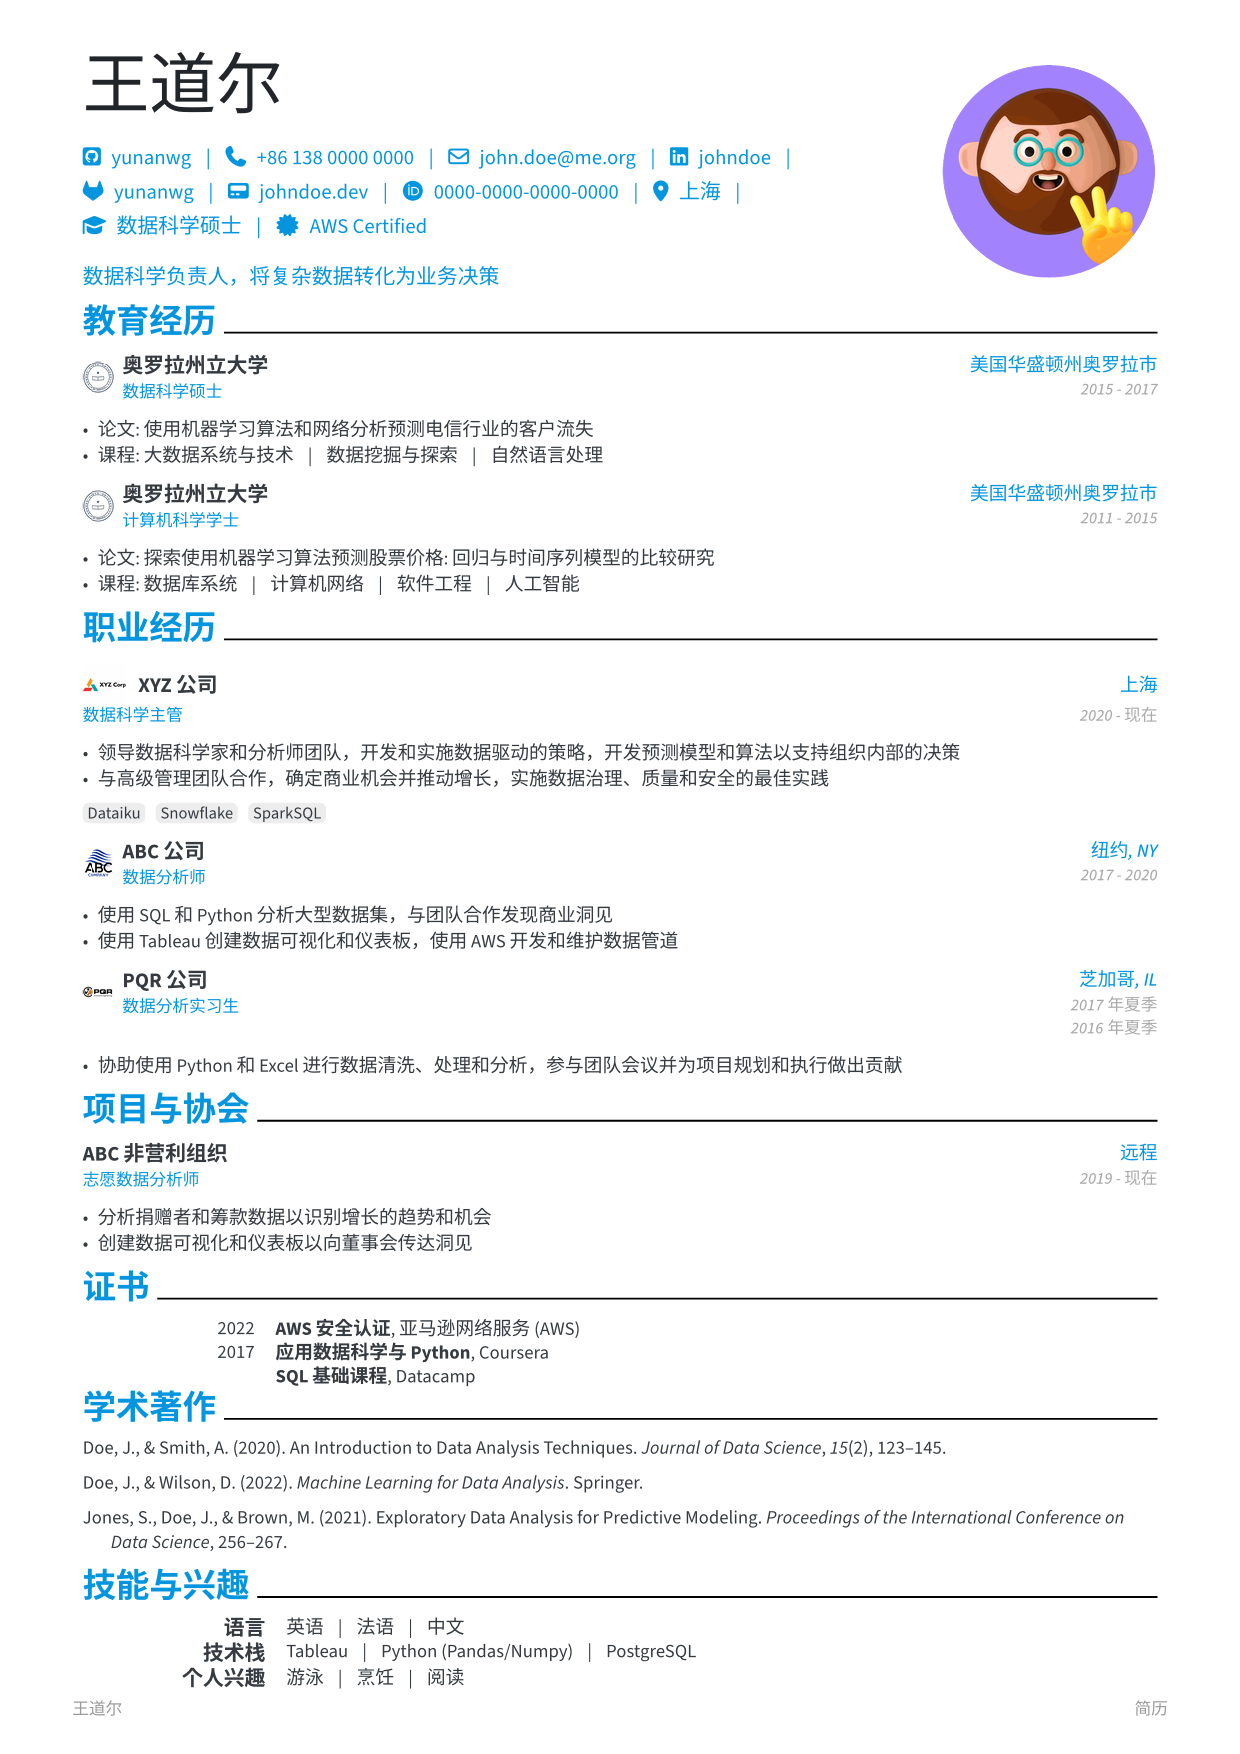
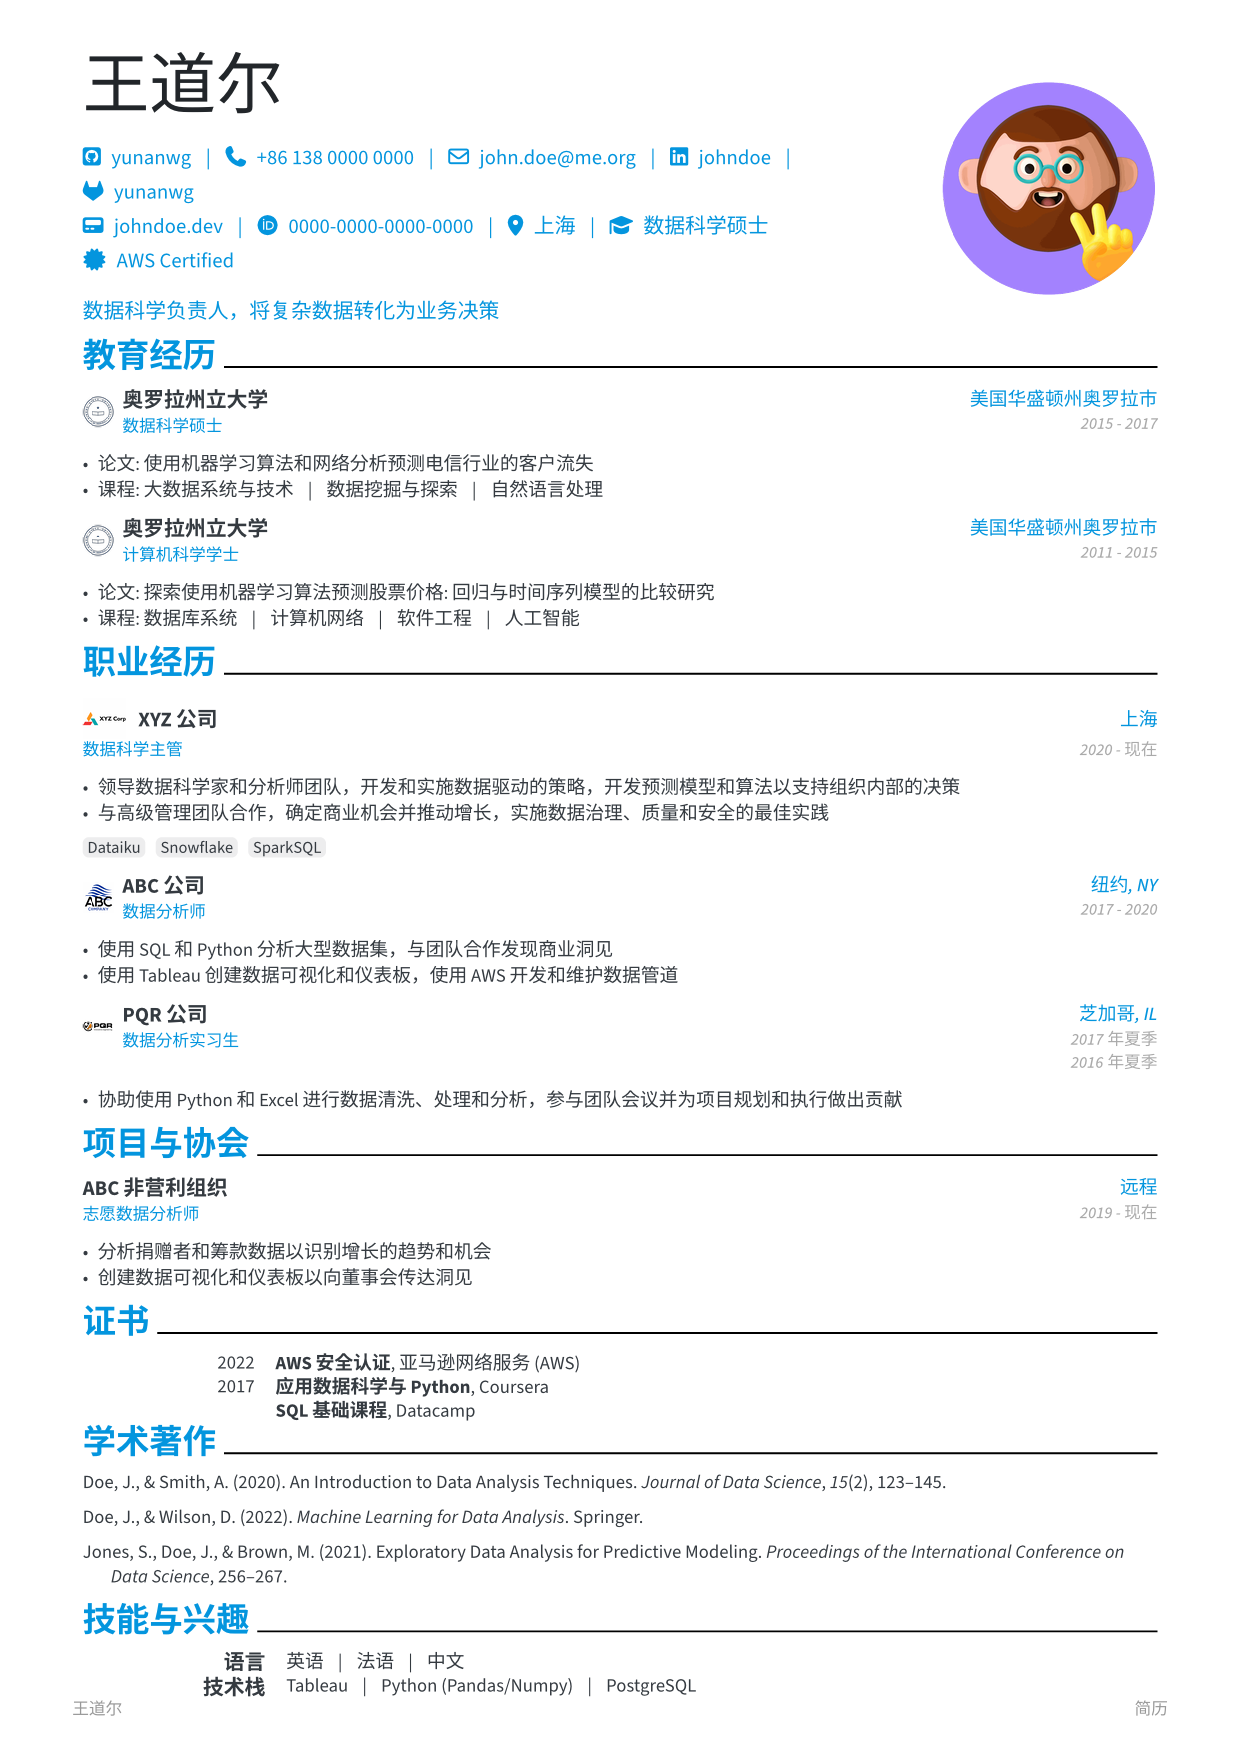
fix(template): tidy starter data and document the tailoring workflow (#266)
* fix(template): tidy starter data and document the tailoring workflow

A second agent dry run on a fresh starter surfaced what was left:

- The Data Scientist bullets duplicated the Data Analyst bullets word for
  word; they now describe the modelling work. "Bachelors" is "Bachelor"
  (fr: "Licence"), and the Languages row no longer puts one 4-dot rating
  on a native and two foreign languages.
- template/AGENTS.md gains the page-count check through the layout hooks
  (`typst eval`), a PNG command for application subfolders, a step-by-step
  recipe for tailoring one application (copy cv.typ and letter.typ, fix
  paths, pin the letter date), and a note on small-caps addresses.
- The fresh-init smoke compiles the documented subfolder copy of the
  letter as well as the CV.

Refs, text snapshots, README previews, and the thumbnail are regenerated.

* docs(template): give the Typst 0.14 page-count command

diff --git a/scripts/release_contract.py b/scripts/release_contract.py
@@ -466,25 +466,26 @@ def smoke(package_dir: Path) -> None:
             raise ContractError("fresh init did not create AGENTS.md")
         application = project / "applications" / "smoke"
         application.mkdir(parents=True)
-        source = (project / "cv.typ").read_text(encoding="utf-8")
-        nested = source.replace('"profile_"', '"../../profile_"').replace(
-            'image("assets/', 'image("../../assets/'
-        )
-        if nested == source:
-            raise ContractError("starter cv.typ no longer uses profile_ paths")
-        (application / "cv.typ").write_text(nested, encoding="utf-8")
-        run(
-            [
-                "typst",
-                "compile",
-                "--package-path",
-                str(package_root),
-                "--root",
-                str(project),
-                str(application / "cv.typ"),
-                str(temporary / "application-cv.pdf"),
-            ]
-        )
+        for entrypoint in ("cv.typ", "letter.typ"):
+            source = (project / entrypoint).read_text(encoding="utf-8")
+            nested = source.replace('"profile_"', '"../../profile_"').replace(
+                '"assets/', '"../../assets/'
+            )
+            if nested == source:
+                raise ContractError(f"starter {entrypoint} no longer uses profile_ paths")
+            (application / entrypoint).write_text(nested, encoding="utf-8")
+            run(
+                [
+                    "typst",
+                    "compile",
+                    "--package-path",
+                    str(package_root),
+                    "--root",
+                    str(project),
+                    str(application / entrypoint),
+                    str(temporary / f"application-{entrypoint.removesuffix('.typ')}.pdf"),
+                ]
+            )
     print(
         "Fresh-init smoke passed: CV + letter, 5 profiles, AGENTS.md subfolder "
         f"workflow, {typst_version()}"

diff --git a/template/AGENTS.md b/template/AGENTS.md
@@ -38,18 +38,38 @@ only.
    - For a file in a subfolder that reads `../../profile_<name>/`, add
      `--root .` and run from this folder:
      `typst compile --root . applications/<company>/cv.typ`
-   - To check the page count and the layout, compile to PNG, one file per
-     page: `typst compile cv.typ "cv-{p}.png"`. Typst does not create a
-     missing output folder.
+   - To check the page count without rendering (Typst 0.15+):
+     `typst eval --input brilliant-cv-query=1 'query(<brilliant-cv>).last().value.pages' --in cv.typ`.
+     On Typst 0.14, use `typst query cv.typ '<brilliant-cv>' --field value --input brilliant-cv-query=1`
+     and read `pages` from the last element. Each element also reports the
+     `page` on which it ends, so you can list what spilled to page 2; the
+     `cv()` doc-comment lists the fields.
+   - To see the layout, compile to PNG, one file per page:
+     `typst compile --root . applications/<company>/cv.typ "applications/<company>/cv-{p}.png"`.
+     Typst does not create a missing output folder.
 5. **Keep personal data local.** A scanned signature, a phone number, and
    application folders do not belong in a public repository. Before the
    first commit, add `applications/`, `*.pdf`, and `assets/signature.*` to a
    `.gitignore` in this folder.
 
+## Tailor a CV for one application
+
+1. Copy `cv.typ` and `letter.typ` to `applications/<company>/`. In both
+   copies, change `"profile_"` to `"../../profile_"` and `"assets/` to
+   `"../../assets/`.
+2. Keep only the modules you need, or paste the chosen entries from
+   `profile_<name>/*.typ` into this file. Do not edit the profile for one job.
+3. Override a profile value for this application only:
+   `#metadata.insert("header_quote", "…")` before `cv.with(metadata)`.
+4. In the letter copy, set `recipient-name`, `recipient-address`, `subject`,
+   and a fixed `date:` (the default is today, so it changes on every compile).
+5. Verify with the commands in rule 4 from this folder, with `--root .`.
+
 ## Useful patterns
 
-- Override a profile value for one application without editing the
-  profile: `#metadata.insert("header_quote", "…")` before `cv.with(metadata)`.
 - The cover-letter body is 12pt. `[layout] font_size` applies to the CV only.
 - To keep the closing, the signature, and the name together on one page,
   put them in `#block(breakable: false)[…]` at the end of the letter.
+- Letter addresses use small caps by default, which prints "ß" as "SS" and
+  e-mail addresses in capitals. Pass `address-style: "normal"` to keep them
+  as written.
